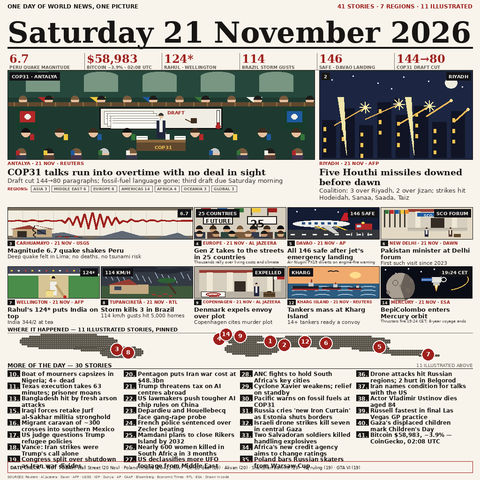
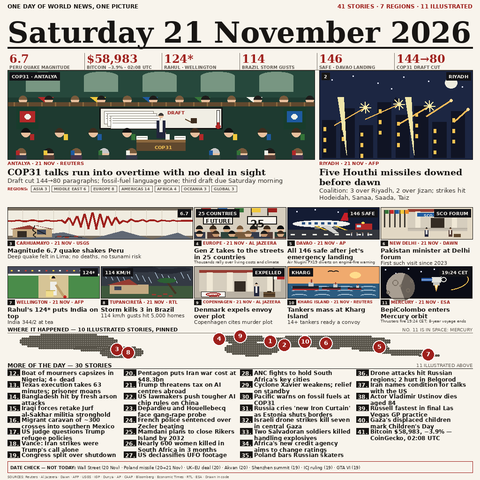
news-image-20261121: round 3 — index overflow + gate fix, Mercury pin annotation, sequential numbering

diff --git a/engine/page.py b/engine/page.py
@@ -38,9 +38,15 @@ INDEX_H = 216
 CHECK_H = 26
 FOOTER_H = 14
 
-# Index grid: four columns; a column holds eight briefs.
+# Index grid: four columns; a column holds eight briefs.  The
+# grid starts INDEX_TOP px into the band and rows are INDEX_ROW_H
+# apart; a brief's lines advance INDEX_LEAD px each.  The deepest
+# brief (row 7, one line) bottoms at 20 + 7*25 + 14 = 209 px,
+# inside the 216 px band — the gate measures this per brief.
 INDEX_ROWS = 8
-INDEX_ROW_H = 26
+INDEX_ROW_H = 25
+INDEX_TOP = 20
+INDEX_LEAD = 14
 
 HERO_SCENE_H = 190
 HERO1_W = 655
@@ -76,6 +82,18 @@ CHECK_L1 = (
     "ICJ ruling (19) · GTA VI (19)"
 )
 CHECK_L2 = ""
+
+
+def space_note(data):
+    """Title-line note for the illustrated story that has no map
+    pin because it did not happen on Earth (the orbit story).
+    Both the number and the place are derived from the content
+    data, never hardcoded."""
+    for story in data["stories"]:
+        if story.get("scene") == "orbit":
+            return "NO. %d IS IN SPACE: %s" % (
+                story["num"], story["place"])
+    return ""
 
 
 def region_counts(stories):
@@ -233,13 +251,19 @@ def _cards(draw, img, cards, y):
         cx += w + CARD_GUTTER
 
 
-def _map(draw, y):
+def _map(draw, y, note=""):
     """WHERE IT HAPPENED band: title + original dotted-continent
-    map with pins numbered to match the illustrated story numbers."""
+    map with pins numbered to match the illustrated story numbers.
+    The orbit story has no pin; ``note`` (from space_note, derived
+    from the data) annotates it on the title line instead."""
     head = get_font(C.SANS_BOLD, 11)
     draw.text((MARGIN, y + 2), "WHERE IT HAPPENED — %d ILLUSTRATED "
               "STORIES, PINNED" % len(art.MAP_PINS),
               font=head, fill=C.INK)
+    if note:
+        note_face = get_font(C.SANS, 10)
+        draw.text((RIGHT - text_w(draw, note, note_face), y + 3),
+                  note, font=note_face, fill=C.FAINT)
     draw.line([MARGIN, y + 16, RIGHT, y + 16], fill=C.HAIRLINE)
     art.paint_map(draw, (MARGIN, y + 18, CONTENT, MAP_H - 20))
 
@@ -254,20 +278,21 @@ def _index(draw, briefs, y, stats):
               font=note_face, fill=C.FAINT)
     draw.line([MARGIN, y + 18, RIGHT, y + 18], fill=C.INK)
     # Four columns of eight rows (30 briefs); rows are INDEX_ROW_H
-    # apart so eight rows fit exactly inside the band.
+    # apart starting INDEX_TOP px into the band, so the deepest
+    # brief bottoms inside the band (see the constants above).
     brief_face = get_font(C.SANS_BOLD, 12)
     col_w = CONTENT // 4
     for idx, story in enumerate(briefs):
         col, row = divmod(idx, INDEX_ROWS)
         cx = MARGIN + col * col_w
-        cy = y + 22 + row * INDEX_ROW_H
+        cy = y + INDEX_TOP + row * INDEX_ROW_H
         draw.rectangle([cx, cy, cx + 26, cy + 13], fill=C.INK)
         draw.text((cx + 3, cy + 1), "%d." % story["num"],
                   font=brief_face, fill=C.PAPER)
         ly = cy
         for line in wrap_lines(draw, story["brief"], brief_face, 210)[:2]:
             draw.text((cx + 30, ly), line, font=brief_face, fill=C.INK)
-            ly += 14
+            ly += INDEX_LEAD
 
 
 def _date_check(draw, y):
@@ -314,7 +339,7 @@ def build_page(data):
     y += HERO_H
     _cards(draw, img, cards, y)
     y += CARDS_H
-    _map(draw, y)
+    _map(draw, y, space_note(data))
     y += MAP_H
     _index(draw, briefs, y, stats)
     y += INDEX_H

diff --git a/engine/gate.py b/engine/gate.py
@@ -93,13 +93,23 @@ def validate(data):
     if nums != list(range(1, len(stories) + 1)):
         failures.append("numbering is not 1..%d" % len(stories))
 
-    # map pins must be exactly the illustrated story numbers
+    # map pins must be exactly the illustrated story numbers,
+    # excluding the orbit-scene story (it has no place on Earth;
+    # the map annotates it as in space instead of pinning it)
     from . import art
+    from .page import space_note
     pins = [n for n, _, _ in art.MAP_PINS]
-    illustrated_nums = [s["num"] for s in stories if s.get("scene")]
+    illustrated_nums = [s["num"] for s in stories
+                        if s.get("scene") and s.get("scene") != "orbit"]
     if pins != illustrated_nums:
         failures.append("map pins %r != illustrated %r"
                         % (pins, illustrated_nums))
+    orbit = [s for s in stories if s.get("scene") == "orbit"]
+    if not orbit:
+        failures.append("no orbit-scene story for the space note")
+    elif "NO. %d " % orbit[0]["num"] not in space_note(data):
+        failures.append("space note %r does not name orbit story %d"
+                        % (space_note(data), orbit[0]["num"]))
 
     for story in stories:
         if story.get("scene"):
@@ -150,23 +160,25 @@ def validate(data):
     # legibility: measured wraps at printed widths; the index
     # grid geometry comes from page.py so the gate measures the
     # real grid (rows per column, row pitch, two-line briefs)
-    from .page import INDEX_ROWS, INDEX_ROW_H
+    from .page import INDEX_LEAD, INDEX_ROWS, INDEX_ROW_H, INDEX_TOP
     brief_face = get_font(C.SANS_BOLD, 12)
+    brief_lines = []
     for story in stories:
         if story.get("tier") != "index":
             continue
         lines = wrap_lines(draw, story["brief"], brief_face,
                            INDEX_TEXT_W)
+        brief_lines.append(len(lines))
         if len(lines) > 2:
             failures.append("brief %d wraps past 2 lines" % story["num"])
-    briefs = [s for s in stories if s["tier"] == "index"]
-    if briefs:
+    if brief_lines:
         deepest = max(
-            (i // INDEX_ROWS) * INDEX_ROW_H + 14 * 2
-            for i in range(len(briefs)))
-        if deepest > INDEX_H - 22:
-            failures.append("index grid bottom %d px past the band"
-                            % deepest)
+            INDEX_TOP + (i % INDEX_ROWS) * INDEX_ROW_H
+            + INDEX_LEAD * lines_i
+            for i, lines_i in enumerate(brief_lines))
+        if deepest > INDEX_H:
+            failures.append("index grid depth %d px exceeds band %d px"
+                            % (deepest, INDEX_H))
     head_face = get_font(C.SANS_BOLD, 13)
     from .page import CARD_SCENE_H, ROW1_WIDTHS, ROW2_WIDTHS
     from .words import fit_size, text_w

diff --git a/engine/art.py b/engine/art.py
@@ -741,10 +741,12 @@ MAP_LAND = [
 ]
 
 # (story number, map-local x, map-local y) — pins for every
-# illustrated story; positions spread so no two pins collide even
-# at the enlarged 480-px-proof size, including the Europe /
-# Middle East cluster.  Story 14 (BepiColombo) is in space — its
-# pin sits off the top edge of the map, as the class leaders do.
+# illustrated story with a place on Earth; positions spread so
+# no two pins collide even at the enlarged 480-px-proof size,
+# including the Europe / Middle East cluster.  The orbit story
+# (BepiColombo at Mercury) has no pin: a pin at the map's edge
+# reads as planted on Earth, so the map's title line annotates
+# it as in space instead (see page.space_note).
 MAP_PINS = [
     (1, 0.565, 0.30),   # Antalya
     (2, 0.595, 0.46),   # Riyadh
@@ -755,8 +757,7 @@ MAP_PINS = [
     (7, 0.905, 0.82),   # Wellington
     (8, 0.260, 0.75),   # Tupanciretã, Brazil
     (9, 0.500, 0.10),   # Copenhagen
-    (12, 0.640, 0.33),  # Kharg Island
-    (14, 0.470, 0.035),  # Mercury — in space, above the map
+    (10, 0.640, 0.33),  # Kharg Island
 ]
 
 
